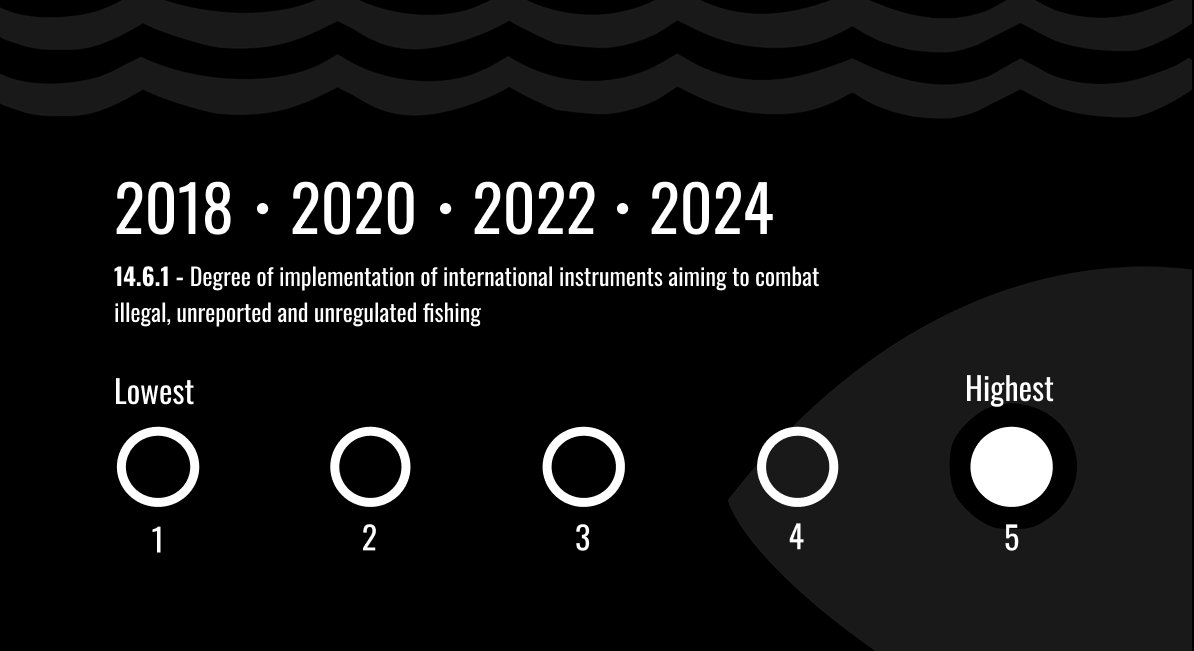
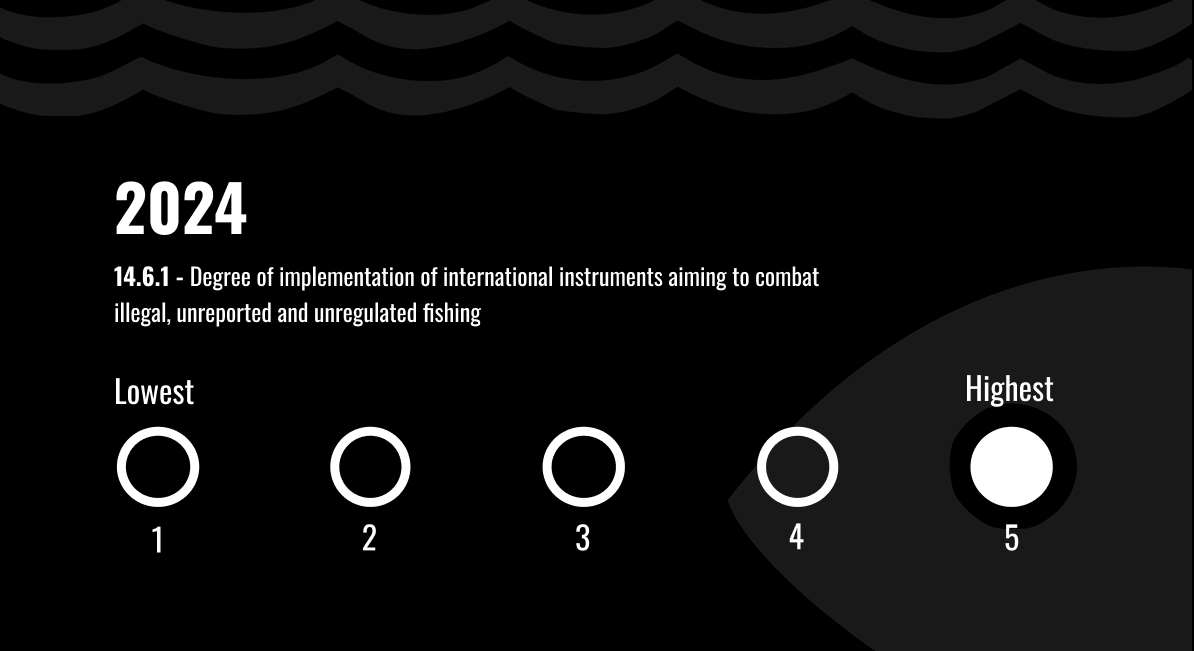
Merge pull request #146 from NSOMalta/develop
Pull request 11 May 2026

Pull request: Pull request 11 May 2026

Changed region(s): [[0.093, 0.2765, 0.5268, 0.3687], [0.5268, 0.2765, 0.6508, 0.3687]]

diff --git a/README.md b/README.md
@@ -4,5 +4,3 @@ This is a starter repository to help in implementing the [Open SDG](https://gith
 
 
 
-
-